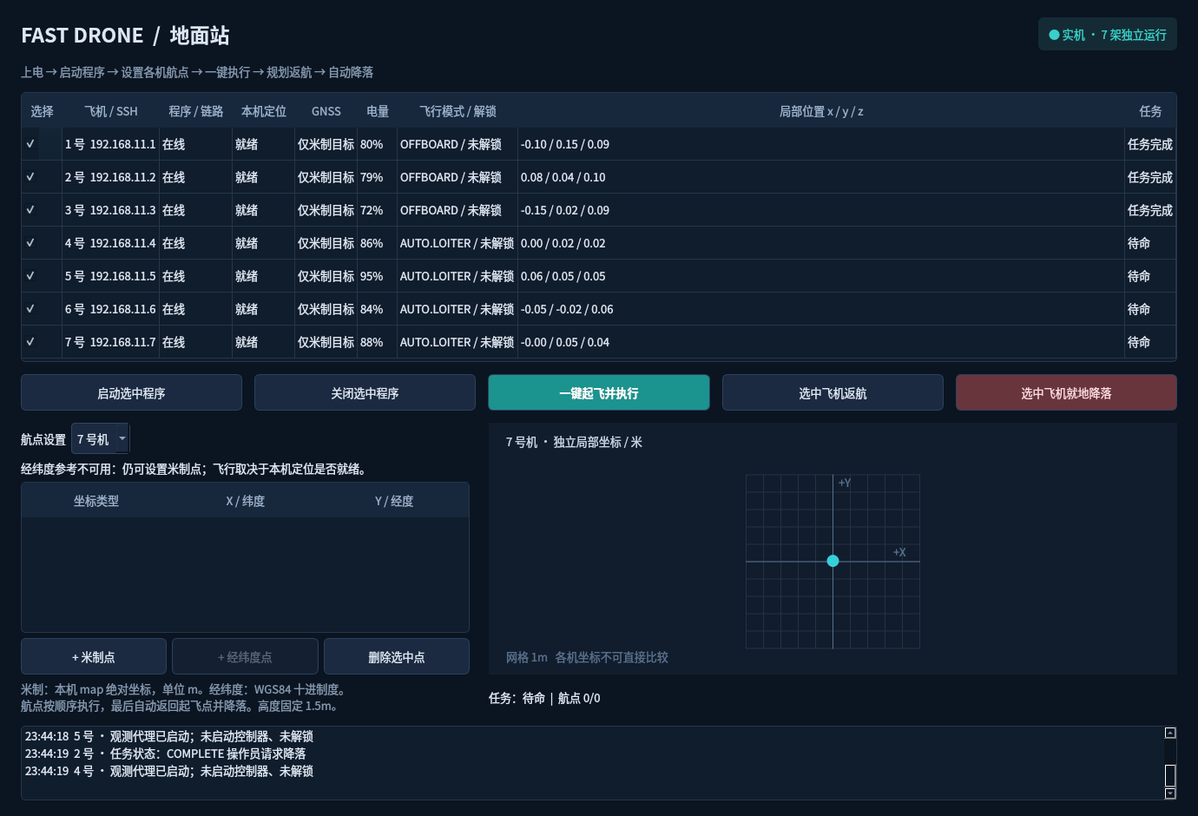
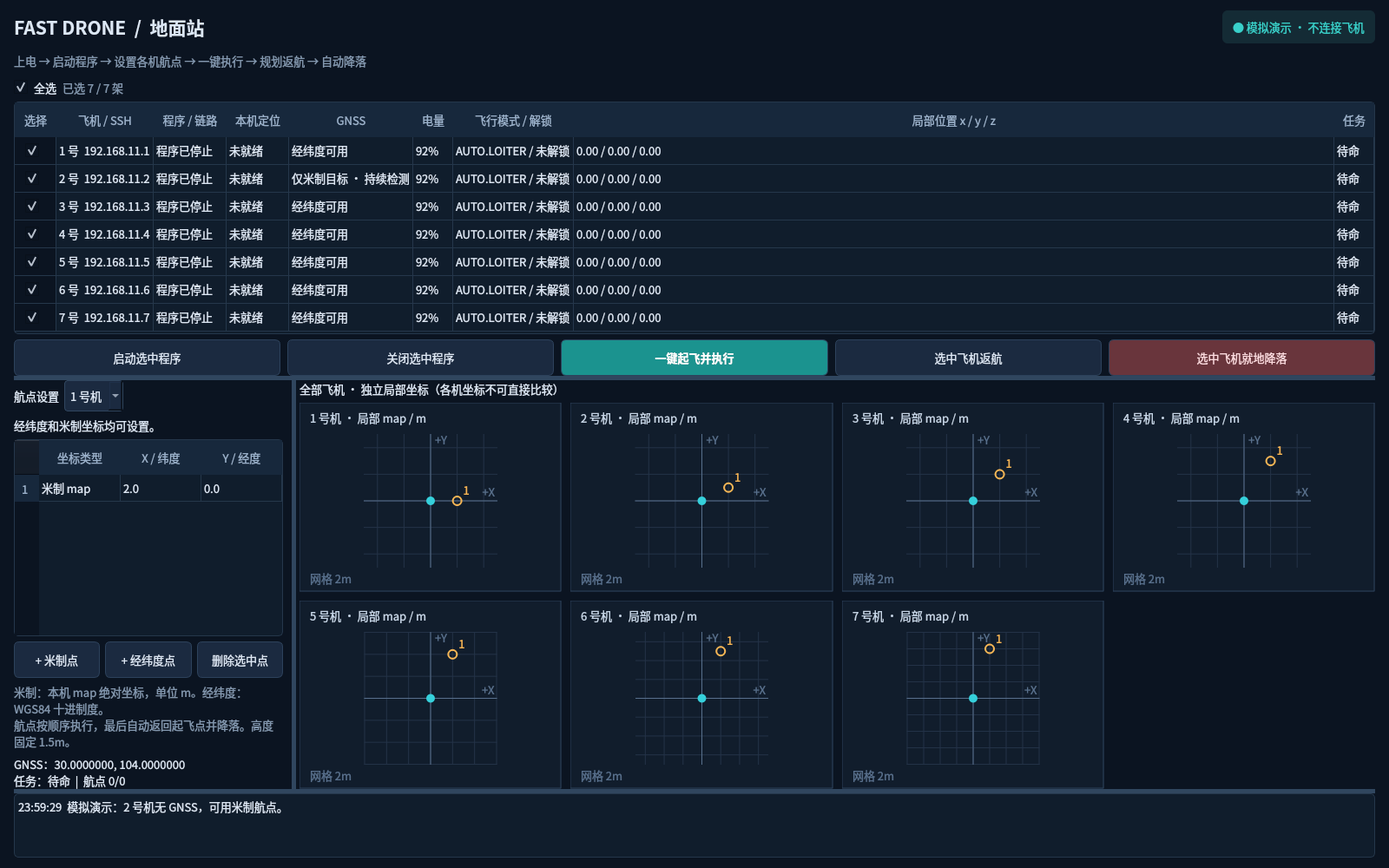
feat: improve fleet layout and live GNSS availability

diff --git a/ground_station/ui.py b/ground_station/ui.py
@@ -5,9 +5,10 @@ from pathlib import Path
 import queue
 import threading
 import time
-from PyQt5 import QtCore, QtGui, QtWidgets as W
+from PyQt5 import QtCore, QtWidgets as W
 from .transport import Remote
 from .demo import Demo
+from .view_widgets import AllCheckBox, MapPanel
 
 PHASES={'IDLE':'待命','ARMING':'解锁中','TAKEOFF':'起飞中','OUTBOUND':'前往航点','RETURNING':'规划返航',
         'LAND_REQUESTED':'请求降落','LANDING':'降落中','COMPLETE':'任务完成','ERROR':'异常','MANUAL':'外部接管',
@@ -46,95 +47,104 @@ class Worker(QtCore.QThread):
         self.backend.close()
 
 
-class LocalPlot(W.QWidget):
-    def __init__(self):
-        super().__init__();self.setMinimumSize(400,290);self.state={};self.points=[];self.trace=[];self.aircraft=1
-    def change(self,n,state,points,trace):
-        self.aircraft=n;self.state=state;self.points=points;self.trace=trace;self.update()
-    def paintEvent(self,event):
-        p=QtGui.QPainter(self);p.setRenderHint(QtGui.QPainter.Antialiasing)
-        p.fillRect(self.rect(),QtGui.QColor('#111d2c'))
-        p.setPen(QtGui.QColor('#c5d5e7'));p.drawText(20,27,f'{self.aircraft} 号机 · 独立局部坐标 / 米')
-        local=[(v['a'],v['b']) for v in self.points if v['kind']=='local']
-        actual=self.state.get('mission',{}).get('points',[])
-        targets=[(a[0],a[1]) for a in actual] or local
-        pos=self.state.get('position');home=self.state.get('mission',{}).get('home')
-        coords=self.trace+targets+([(pos[0],pos[1])] if pos else [])+([(home[0],home[1])] if home else [])+[(0,0)]
-        extent=max(5,max(abs(v) for xy in coords for v in xy)+2)
-        scale=min(self.width()-80,self.height()-90)/(2*extent)
-        cx,cy=self.width()/2,(self.height()+30)/2
-        def xy(a,b):return QtCore.QPointF(cx+a*scale,cy-b*scale)
-        p.setPen(QtGui.QPen(QtGui.QColor('#233247'),1))
-        step=max(1,round(extent/5))
-        for v in range(-int(extent),int(extent)+1):
-            if v%step==0:
-                p.drawLine(xy(v,-extent),xy(v,extent));p.drawLine(xy(-extent,v),xy(extent,v))
-        p.setPen(QtGui.QPen(QtGui.QColor('#58708d'),1));p.drawLine(xy(-extent,0),xy(extent,0));p.drawLine(xy(0,-extent),xy(0,extent))
-        p.drawText(int(cx+extent*scale)-30,int(cy)-6,'+X');p.drawText(int(cx)+7,int(cy-extent*scale)+14,'+Y')
-        p.drawText(20,self.height()-15,f'网格 {step}m   各机坐标不可直接比较')
-        if len(self.trace)>1:
-            p.setPen(QtGui.QPen(QtGui.QColor('#36c5cc'),2));p.drawPolyline(QtGui.QPolygonF([xy(*a) for a in self.trace]))
-        p.setPen(QtGui.QPen(QtGui.QColor('#f6b655'),2));p.setBrush(QtCore.Qt.NoBrush)
-        for i,pt in enumerate(targets):
-            q=xy(*pt);p.drawEllipse(q,6,6);p.drawText(q+QtCore.QPointF(9,-8),str(i+1))
-        if home:
-            q=xy(home[0],home[1]);p.setPen(QtGui.QColor('#6be2a5'));p.drawRect(QtCore.QRectF(q.x()-6,q.y()-6,12,12));p.drawText(q+QtCore.QPointF(9,15),'起飞点')
-        if pos:
-            q=xy(pos[0],pos[1]);p.setPen(QtCore.Qt.NoPen);p.setBrush(QtGui.QColor('#35d0db'));p.drawEllipse(q,7,7)
-        p.end()
-
-
 class Window(W.QMainWindow):
     def __init__(self,config,path,demo=False):
         super().__init__();self.config=config;self.path=Path(path);self.demo=demo
         self.states={};self.traces={a['id']:[] for a in config['aircraft']};self.current=config['aircraft'][0]['id']
         self.workers={};self.event_seen={};self.loading=False;self.received={}
         self.setWindowTitle('Fast Drone · 独立单机地面站'+(' [模拟演示]' if demo else ''))
-        self.resize(1380,940)
-        central=W.QWidget();self.setCentralWidget(central);layout=W.QVBoxLayout(central);layout.setContentsMargins(24,20,24,18);layout.setSpacing(14)
+        screen=W.QApplication.primaryScreen().availableGeometry()
+        self.resize(min(1680,int(screen.width()*.9)),min(1080,int(screen.height()*.9)))
+        self.setMinimumSize(720,540)
+        central=W.QWidget();self.setCentralWidget(central);layout=W.QVBoxLayout(central);layout.setContentsMargins(16,12,16,12);layout.setSpacing(10)
         top=W.QHBoxLayout();title=W.QLabel('FAST DRONE  /  地面站');title.setObjectName('title');top.addWidget(title);top.addStretch()
         badge=W.QLabel('● 模拟演示 · 不连接飞机' if demo else '● 实机 · '+str(len(config['aircraft']))+' 架独立运行');badge.setObjectName('badge');top.addWidget(badge);layout.addLayout(top)
-        desc=W.QLabel('上电 → 启动程序 → 设置各机航点 → 一键执行 → 规划返航 → 自动降落');desc.setObjectName('muted');layout.addWidget(desc)
+        desc=W.QLabel('上电 → 启动程序 → 设置各机航点 → 一键执行 → 规划返航 → 自动降落');desc.setObjectName('muted');desc.setWordWrap(True);layout.addWidget(desc)
+        self.main_splitter=W.QSplitter(QtCore.Qt.Vertical);self.main_splitter.setChildrenCollapsible(False)
+        self.sections_adjusted=False;self.main_splitter.splitterMoved.connect(self.mark_sections_adjusted)
+        layout.addWidget(self.main_splitter,1)
+        status_panel=W.QWidget();status_layout=W.QVBoxLayout(status_panel);status_layout.setContentsMargins(0,0,0,0);status_layout.setSpacing(6)
+        selection=W.QHBoxLayout();self.select_all=AllCheckBox('全选');self.select_all.setTristate(True)
+        self.select_all.stateChanged.connect(self.set_all_selected);selection.addWidget(self.select_all)
+        self.selection_count=W.QLabel();self.selection_count.setObjectName('muted');selection.addWidget(self.selection_count);selection.addStretch();status_layout.addLayout(selection)
+        self.checkboxes={}
         self.table=W.QTableWidget(len(config['aircraft']),9)
         self.table.setHorizontalHeaderLabels(['选择','飞机 / SSH','程序 / 链路','本机定位','GNSS','电量','飞行模式 / 解锁','局部位置 x / y / z','任务'])
         self.table.verticalHeader().hide();self.table.setSelectionBehavior(W.QAbstractItemView.SelectRows);self.table.setEditTriggers(W.QAbstractItemView.NoEditTriggers)
         self.table.horizontalHeader().setSectionResizeMode(W.QHeaderView.ResizeToContents);self.table.horizontalHeader().setSectionResizeMode(7,W.QHeaderView.Stretch)
-        self.table.setFixedHeight(45+38*len(config['aircraft']))
+        self.table.horizontalHeader().setSectionResizeMode(0,W.QHeaderView.Fixed);self.table.setColumnWidth(0,48)
+        self.table.setMinimumHeight(85);self.table.setSizePolicy(W.QSizePolicy.Expanding,W.QSizePolicy.Expanding)
         for row,a in enumerate(config['aircraft']):
-            item=W.QTableWidgetItem();item.setFlags(QtCore.Qt.ItemIsEnabled|QtCore.Qt.ItemIsUserCheckable);item.setCheckState(QtCore.Qt.Checked);self.table.setItem(row,0,item)
+            box=W.QCheckBox();box.setChecked(True);box.setAccessibleName(f"选择 {a['id']} 号机")
+            box.stateChanged.connect(self.update_selection);self.checkboxes[a['id']]=box
+            cell=W.QWidget();cell_layout=W.QHBoxLayout(cell);cell_layout.setContentsMargins(0,0,0,0);cell_layout.setAlignment(QtCore.Qt.AlignCenter);cell_layout.addWidget(box)
+            self.table.setCellWidget(row,0,cell)
             for col in range(1,9):self.table.setItem(row,col,W.QTableWidgetItem('—'))
-            self.table.item(row,1).setText(f"{a['id']} 号  {a['host']}");self.table.setRowHeight(row,38)
+            self.table.item(row,1).setText(f"{a['id']} 号  {a['host']}");self.table.setRowHeight(row,32)
             worker=Worker(a,demo);worker.state.connect(self.on_state);worker.result.connect(self.on_result);self.workers[a['id']]=worker
-        layout.addWidget(self.table)
-        tools=W.QHBoxLayout();self.buttons={}
+        status_layout.addWidget(self.table,1);self.update_selection()
+        self.toolbar=W.QWidget();self.toolbar_grid=W.QGridLayout(self.toolbar);self.toolbar_grid.setContentsMargins(0,0,0,0);self.toolbar_grid.setSpacing(8);self.toolbar_columns=0;self.buttons={}
         for name,label,style in [('start_program','启动选中程序',''),('stop_program','关闭选中程序',''),('start','一键起飞并执行','primary'),('return','选中飞机返航',''),('land','选中飞机就地降落','danger')]:
-            button=W.QPushButton(label);button.setObjectName(style);button.clicked.connect(lambda checked=False,c=name:self.batch(c));tools.addWidget(button);self.buttons[name]=button
-        layout.addLayout(tools)
-        splitter=W.QSplitter();layout.addWidget(splitter,1)
-        left=W.QWidget();ll=W.QVBoxLayout(left);ll.setContentsMargins(0,0,12,0)
+            button=W.QPushButton(label);button.setObjectName(style);button.clicked.connect(lambda checked=False,c=name:self.batch(c));self.buttons[name]=button
+        status_layout.addWidget(self.toolbar);self.main_splitter.addWidget(status_panel)
+        splitter=W.QSplitter();splitter.setChildrenCollapsible(False);self.main_splitter.addWidget(splitter)
+        left=W.QWidget();ll=W.QVBoxLayout(left);ll.setContentsMargins(0,0,10,0)
         header=W.QHBoxLayout();header.addWidget(W.QLabel('航点设置'));self.selector=W.QComboBox()
         for a in config['aircraft']:self.selector.addItem(f"{a['id']} 号机",a['id'])
         self.selector.currentIndexChanged.connect(self.switch);header.addWidget(self.selector);header.addStretch();ll.addLayout(header)
         self.notice=W.QLabel();self.notice.setWordWrap(True);ll.addWidget(self.notice)
         self.waypoints=W.QTableWidget(0,3);self.waypoints.setHorizontalHeaderLabels(['坐标类型','X / 纬度','Y / 经度']);self.waypoints.horizontalHeader().setSectionResizeMode(W.QHeaderView.Stretch);ll.addWidget(self.waypoints)
-        self.waypoints.itemChanged.connect(self.save_edits)
+        self.waypoints.setMinimumHeight(85);self.waypoints.itemChanged.connect(self.save_edits)
         controls=W.QHBoxLayout()
         add=W.QPushButton('+ 米制点');add.clicked.connect(lambda:self.add_point('local'));controls.addWidget(add)
         self.add_geo=W.QPushButton('+ 经纬度点');self.add_geo.clicked.connect(lambda:self.add_point('geo'));controls.addWidget(self.add_geo)
         delete=W.QPushButton('删除选中点');delete.clicked.connect(self.delete_point);controls.addWidget(delete)
         ll.addLayout(controls)
         text=W.QLabel('米制：本机 map 绝对坐标，单位 m。经纬度：WGS84 十进制度。\n航点按顺序执行，最后自动返回起飞点并降落。高度固定 1.5m。');text.setWordWrap(True);text.setObjectName('muted');ll.addWidget(text)
-        splitter.addWidget(left)
-        right=W.QWidget();rl=W.QVBoxLayout(right);rl.setContentsMargins(10,0,0,0)
-        self.plot=LocalPlot();rl.addWidget(self.plot,1);self.details=W.QLabel('等待遥测');self.details.setWordWrap(True);rl.addWidget(self.details);splitter.addWidget(right);splitter.setSizes([500,760])
-        self.log=W.QPlainTextEdit();self.log.setReadOnly(True);self.log.setMaximumHeight(130);self.log.document().setMaximumBlockCount(300);layout.addWidget(self.log)
-        self.setStyleSheet('''QMainWindow,QWidget{background:#0b1421;color:#dce7f5;font-family:"Noto Sans CJK SC","DejaVu Sans";font-size:13px} QLabel#title{font-size:23px;font-weight:700} QLabel#badge{color:#39d0ca;background:#142b35;border-radius:6px;padding:9px} QLabel#muted{color:#8297af} QPushButton{background:#1b2a40;border:1px solid #2d425c;border-radius:6px;padding:10px 14px} QPushButton:hover{background:#263b55} QPushButton:disabled{color:#586777;background:#142031} QPushButton#primary{background:#1b938f;color:white;font-weight:bold} QPushButton#danger{background:#69353c;color:#ffdbdf} QTableWidget,QPlainTextEdit{background:#101d2c;alternate-background-color:#152436;border:1px solid #25374b;border-radius:5px;gridline-color:#25374b;selection-background-color:#214e63} QHeaderView::section{background:#17283c;color:#9bb2cc;padding:8px;border:0} QComboBox{background:#1b2a40;padding:6px;border:1px solid #30465f;border-radius:4px} QLineEdit{background:#142236} QSplitter::handle{background:#25374b;width:1px}''')
-        self.load_points();self.write_log('模拟演示：2 号机无 GNSS，可用米制航点。' if demo else '启动程序不会解锁；任务在各机独立执行。')
+        self.details=W.QLabel('等待遥测');self.details.setWordWrap(True);ll.addWidget(self.details)
+        editor=W.QScrollArea();editor.setWidgetResizable(True);editor.setFrameShape(W.QFrame.NoFrame);editor.setWidget(left);editor.setMinimumSize(250,150)
+        splitter.addWidget(editor)
+        right=W.QWidget();rl=W.QVBoxLayout(right);rl.setContentsMargins(4,0,0,0)
+        map_title=W.QLabel('全部飞机 · 独立局部坐标（各机坐标不可直接比较）');map_title.setWordWrap(True);rl.addWidget(map_title)
+        self.map_panel=MapPanel([a['id'] for a in config['aircraft']]);rl.addWidget(self.map_panel,1)
+        splitter.addWidget(right);splitter.setStretchFactor(0,0);splitter.setStretchFactor(1,1);splitter.setSizes([320,1200])
+        self.log=W.QPlainTextEdit();self.log.setReadOnly(True);self.log.setMinimumHeight(50);self.log.document().setMaximumBlockCount(300);self.main_splitter.addWidget(self.log)
+        self.main_splitter.setSizes([335,590,90]);self.main_splitter.setStretchFactor(0,1);self.main_splitter.setStretchFactor(1,3);self.main_splitter.setStretchFactor(2,0)
+        self.setStyleSheet('''QMainWindow,QWidget{background:#0b1421;color:#dce7f5;font-family:"Noto Sans CJK SC","DejaVu Sans";font-size:13px} QLabel#title{font-size:21px;font-weight:700} QLabel#badge{color:#39d0ca;background:#142b35;border-radius:6px;padding:9px} QLabel#muted{color:#8297af} QPushButton{background:#1b2a40;border:1px solid #2d425c;border-radius:6px;padding:10px 14px} QPushButton:hover{background:#263b55} QPushButton:disabled{color:#586777;background:#142031} QPushButton#primary{background:#1b938f;color:white;font-weight:bold} QPushButton#danger{background:#69353c;color:#ffdbdf} QTableWidget,QPlainTextEdit{background:#101d2c;alternate-background-color:#152436;border:1px solid #25374b;border-radius:5px;gridline-color:#25374b;selection-background-color:#214e63} QHeaderView::section{background:#17283c;color:#9bb2cc;padding:8px;border:0} QComboBox{background:#1b2a40;padding:6px;border:1px solid #30465f;border-radius:4px} QLineEdit{background:#142236} QCheckBox{spacing:7px} QCheckBox::indicator{width:16px;height:16px} QSplitter::handle{background:#30465f;width:5px;height:5px} QScrollArea{border:0}''')
+        self.adapt_toolbar();self.load_points();self.write_log('模拟演示：2 号机无 GNSS，可用米制航点。' if demo else '启动程序不会解锁；任务在各机独立执行。')
         for worker in self.workers.values():worker.start()
         self.timer=QtCore.QTimer(self);self.timer.timeout.connect(self.refresh_detail);self.timer.start(500)
 
     def write_log(self,text):self.log.appendPlainText(time.strftime('%H:%M:%S')+'  '+text)
-    def selected(self):return [a['id'] for row,a in enumerate(self.config['aircraft']) if self.table.item(row,0).checkState()==QtCore.Qt.Checked]
+    def selected(self):return [n for n,box in self.checkboxes.items() if box.isChecked()]
+    def set_all_selected(self,state):
+        for box in self.checkboxes.values():
+            blocker=QtCore.QSignalBlocker(box);box.setChecked(state==QtCore.Qt.Checked);del blocker
+        self.update_selection()
+    def update_selection(self,*args):
+        count=len(self.selected());total=len(self.checkboxes)
+        state=QtCore.Qt.Checked if count==total else QtCore.Qt.PartiallyChecked if count else QtCore.Qt.Unchecked
+        blocker=QtCore.QSignalBlocker(self.select_all);self.select_all.setCheckState(state);del blocker
+        self.selection_count.setText(f'已选 {count} / {total} 架')
+    def resizeEvent(self,event):
+        super().resizeEvent(event)
+        if hasattr(self,'toolbar_grid'):
+            self.adapt_toolbar();QtCore.QTimer.singleShot(0,self.fit_sections)
+    def mark_sections_adjusted(self,*args):self.sections_adjusted=True
+    def fit_sections(self):
+        if self.sections_adjusted:return
+        height=self.main_splitter.height()
+        desired=self.table.rowCount()*32+self.table.horizontalHeader().height()+self.toolbar.sizeHint().height()+self.select_all.sizeHint().height()+16
+        top=min(desired,int(height*.4));bottom=min(90,max(50,height//12))
+        self.main_splitter.setSizes([top,max(150,height-top-bottom-10),bottom])
+    def adapt_toolbar(self):
+        columns=5 if self.width()>=1150 else 3
+        if columns==self.toolbar_columns:return
+        while self.toolbar_grid.count():self.toolbar_grid.takeAt(0)
+        for col in range(max(columns,self.toolbar_columns)):self.toolbar_grid.setColumnStretch(col,0)
+        for i,button in enumerate(self.buttons.values()):self.toolbar_grid.addWidget(button,i//columns,i%columns)
+        for col in range(columns):self.toolbar_grid.setColumnStretch(col,1)
+        self.toolbar_columns=columns
     def points(self,n):return self.config.setdefault('waypoints',{}).setdefault(str(n),[])
     def persist(self):
         temporary=self.path.with_suffix('.tmp')
@@ -166,7 +176,7 @@ class Window(W.QMainWindow):
         state=self.states.get(self.current,{})
         if kind=='geo':
             gps=state.get('gps')
-            if not state.get('geo_ready') or not gps:return
+            if not self.geo_available(self.current):return
             a,b=gps['latitude'],gps['longitude']
         else:
             pos=state.get('position') or [0,0,0];a,b=round(pos[0]+2,2),round(pos[1],2)
@@ -225,10 +235,17 @@ class Window(W.QMainWindow):
         if events and events[-1]!=last:
             self.write_log(f"{n} 号 · {events[-1]['text']}");self.event_seen[n]=events[-1]
         self.refresh_detail()
+    def geo_available(self,n):
+        state=self.states.get(n,{})
+        return bool(time.monotonic()-self.received.get(n,0)<3 and state.get('online')
+                    and state.get('geo_ready') and state.get('gps'))
     def refresh_detail(self):
+        for row,a in enumerate(self.config['aircraft']):
+            n=a['id']
+            self.table.item(row,4).setText('经纬度可用' if self.geo_available(n) else '仅米制目标 · 持续检测')
         s=self.states.get(self.current,{});fresh=time.monotonic()-self.received.get(self.current,0)<3
-        geo=bool(fresh and s.get('online') and s.get('geo_ready'));self.add_geo.setEnabled(geo)
-        self.notice.setText('经纬度和米制坐标均可设置。' if geo else '经纬度参考不可用：仍可设置米制点；飞行取决于本机定位是否就绪。')
+        geo=self.geo_available(self.current);self.add_geo.setEnabled(geo)
+        self.notice.setText('经纬度和米制坐标均可设置。' if geo else '持续检测 GNSS 与坐标参考，可用后自动开放经纬度点；当前可设置米制点。')
         m=s.get('mission',{});gps=s.get('gps');parts=[]
         if not fresh:parts.append('遥测未更新，请等待连接')
         parts.extend(s.get('reasons',[]))
@@ -236,7 +253,8 @@ class Window(W.QMainWindow):
         if gps:parts.append(f"GNSS：{gps['latitude']:.7f}, {gps['longitude']:.7f}")
         parts.append(f"任务：{PHASES.get(m.get('phase'),m.get('phase','—'))}  |  航点 {min(m.get('index',0)+1,len(m.get('points',[])))}/{len(m.get('points',[]))}")
         if m.get('reason'):parts.append(m['reason'])
-        self.details.setText('\n'.join(parts));self.plot.change(self.current,s,self.points(self.current),self.traces[self.current])
+        self.details.setText('\n'.join(parts))
+        for n,plot in self.map_panel.plots.items():plot.change(self.states.get(n,{}),self.points(n),self.traces[n])
     def closeEvent(self,event):
         active=[n for n,s in self.states.items() if s.get('mission',{}).get('active')]
         if active and W.QMessageBox.question(self,'机上任务仍在执行','关闭界面不会停止机上任务，飞机仍会按任务返航降落。确认关闭？',W.QMessageBox.Yes|W.QMessageBox.No,W.QMessageBox.No)!=W.QMessageBox.Yes:event.ignore();return

diff --git a/ground_station/view_widgets.py b/ground_station/view_widgets.py
@@ -1,0 +1,82 @@
+"""Presentation-only widgets for independent aircraft views."""
+import math
+from PyQt5 import QtCore, QtGui, QtWidgets as W
+
+
+class AllCheckBox(W.QCheckBox):
+    def nextCheckState(self):
+        # Partial is a display state; a click always selects all or clears all.
+        self.setCheckState(QtCore.Qt.Unchecked if self.checkState()==QtCore.Qt.Checked else QtCore.Qt.Checked)
+
+
+class LocalPlot(W.QWidget):
+    def __init__(self,aircraft):
+        super().__init__();self.setMinimumSize(180,150)
+        self.setSizePolicy(W.QSizePolicy.Expanding,W.QSizePolicy.Expanding)
+        self.aircraft=aircraft;self.state={};self.points=[];self.trace=[]
+    def change(self,state,points,trace):
+        self.state=state;self.points=points;self.trace=trace;self.update()
+    def paintEvent(self,event):
+        p=QtGui.QPainter(self);p.setRenderHint(QtGui.QPainter.Antialiasing)
+        p.fillRect(self.rect(),QtGui.QColor('#111d2c'))
+        p.setPen(QtGui.QPen(QtGui.QColor('#2d425c'),1));p.drawRect(self.rect().adjusted(0,0,-1,-1))
+        p.setPen(QtGui.QColor('#c5d5e7'));p.drawText(12,23,f'{self.aircraft} 号机 · 局部 map / m')
+        local=[(v['a'],v['b']) for v in self.points if v['kind']=='local']
+        actual=self.state.get('mission',{}).get('points',[])
+        targets=[(a[0],a[1]) for a in actual] or local
+        pos=self.state.get('position');home=self.state.get('mission',{}).get('home')
+        coords=self.trace+targets+([(pos[0],pos[1])] if pos else [])+([(home[0],home[1])] if home else [])+[(0,0)]
+        extent=max(5,max(abs(v) for xy in coords for v in xy)+2)
+        scale=min(self.width()-52,self.height()-65)/(2*extent)
+        cx,cy=self.width()/2,(self.height()+8)/2
+        def xy(a,b):return QtCore.QPointF(cx+a*scale,cy-b*scale)
+        step=max(1,math.ceil(extent/4))
+        p.setPen(QtGui.QPen(QtGui.QColor('#233247'),1))
+        for i in range(-4,5):
+            v=i*step
+            if abs(v)<=extent:
+                p.drawLine(xy(v,-extent),xy(v,extent));p.drawLine(xy(-extent,v),xy(extent,v))
+        p.setPen(QtGui.QPen(QtGui.QColor('#58708d'),1))
+        p.drawLine(xy(-extent,0),xy(extent,0));p.drawLine(xy(0,-extent),xy(0,extent))
+        p.drawText(xy(extent,0)+QtCore.QPointF(-17,-5),'+X');p.drawText(xy(0,extent)+QtCore.QPointF(5,11),'+Y')
+        p.drawText(12,self.height()-10,f'网格 {step:g}m')
+        if len(self.trace)>1:
+            p.setPen(QtGui.QPen(QtGui.QColor('#36c5cc'),2));p.drawPolyline(QtGui.QPolygonF([xy(*a) for a in self.trace]))
+        p.setPen(QtGui.QPen(QtGui.QColor('#f6b655'),2));p.setBrush(QtCore.Qt.NoBrush)
+        for i,pt in enumerate(targets):
+            q=xy(*pt);p.drawEllipse(q,5,5);p.drawText(q+QtCore.QPointF(7,-7),str(i+1))
+        if home:
+            q=xy(home[0],home[1]);p.setPen(QtGui.QColor('#6be2a5'));p.drawRect(QtCore.QRectF(q.x()-5,q.y()-5,10,10))
+        if pos:
+            q=xy(pos[0],pos[1]);p.setPen(QtCore.Qt.NoPen);p.setBrush(QtGui.QColor('#35d0db'));p.drawEllipse(q,5,5)
+        else:
+            p.setPen(QtGui.QColor('#8297af'));p.drawText(self.rect(),QtCore.Qt.AlignCenter,'等待位置')
+        if not self.state.get('online',False):
+            p.setPen(QtGui.QColor('#f6b655'));p.drawText(self.width()-66,self.height()-10,'未连接')
+        p.end()
+
+
+class MapPanel(W.QScrollArea):
+    def __init__(self,aircraft):
+        super().__init__();self.setWidgetResizable(True);self.setFrameShape(W.QFrame.NoFrame)
+        self.setMinimumSize(200,150)
+        self.body=W.QWidget();self.grid=W.QGridLayout(self.body);self.grid.setContentsMargins(0,0,0,0);self.grid.setSpacing(10)
+        self.plots={n:LocalPlot(n) for n in aircraft};self.columns=0
+        self.setWidget(self.body);self.viewport().installEventFilter(self)
+        self.reflow(self.viewport().width())
+    def eventFilter(self,obj,event):
+        if obj is self.viewport() and event.type()==QtCore.QEvent.Resize:
+            self.reflow(event.size().width())
+        return super().eventFilter(obj,event)
+    def reflow(self,width):
+        columns=min(len(self.plots),4,max(1,(width+10)//210))
+        if columns==self.columns:return
+        while self.grid.count():self.grid.takeAt(0)
+        for col in range(max(self.columns,columns)):self.grid.setColumnStretch(col,0)
+        for row in range(self.grid.rowCount()):self.grid.setRowStretch(row,0)
+        for i,plot in enumerate(self.plots.values()):
+            self.grid.addWidget(plot,i//columns,i%columns);self.grid.setRowStretch(i//columns,1)
+        for col in range(columns):self.grid.setColumnStretch(col,1)
+        rows=math.ceil(len(self.plots)/columns)
+        self.body.setMinimumHeight(rows*150+(rows-1)*10)
+        self.columns=columns

diff --git a/docs/ui-layout.md b/docs/ui-layout.md
@@ -1,0 +1,13 @@
+# 地面站自适应界面
+
+本次确认的布局：选择列使用居中的单独勾选框，不显示空文本格；增加全选框，反映全选、部分选中、未选中状态。每架飞机自己的局部坐标图同时展示，随可用宽度自动换列，不能误解为共同地图。状态表、航点编辑/地图、日志之间可拖动调整。
+
+实施顺序：
+1. 替换选择单元格并连接全选状态，保持批量操作仅针对勾选飞机。
+2. 复用 LocalPlot，建立按飞机编号索引的小图网格；未收到数据也显示该机占位图。
+3. 移除表格和地图的大固定尺寸，使用分隔条和滚动区；操作按钮窄窗口自动换行，初始窗口适配屏幕可用区域。
+4. 离线验证选择与批量操作编号、独立图更新、宽窄窗口布局，检查截图；不修改 SSH、任务状态机或机载程序。
+
+GNSS 补充：保留每机持续状态轮询；经纬度按钮、状态表和添加操作统一检查当前参考与遥测时效，信号恢复后自动启用，超过 3 秒未更新时禁用。米制点不受 GNSS 限制。
+
+验证完成：离线检查全选/部分选中、仅向勾选飞机提交模拟任务、各机图独立更新、窗口缩放，以及 GNSS 失效/恢复/遥测超时，共 5 项通过。检查 1600×1000、1280×800、800×600 的布局；小窗口使用滚动区。interface.png 为离线演示截图。临时测试脚本已清理；未执行真实飞行命令。

diff --git a/README.md b/README.md
@@ -32,6 +32,10 @@ bash run.sh
 5. 可提前点击「返航」或「就地降落」。切换为外部控制模式后不自动抢回 OFFBOARD。
 6. 已着陆、未解锁且没有执行中任务时，可以关闭机上程序。
 
+选择列只保留居中勾选框；上方「全选」支持全选、取消全选，并显示部分选中状态。七架飞机的独立坐标图同时显示，随窗口宽度自动换列；空间不足时可滚动查看。拖动分隔条可调整状态表、航点/地图区及日志的大小。
+
+GNSS 和坐标参考持续检测，正常通信下约每 0.7 秒查询一次机上状态；参考有效后自动启用「+ 经纬度点」，无需重启。失效或遥测超过 3 秒未更新时禁用经纬度点，恢复后自动启用，米制点仍可设置。坐标转换参考需要在未解锁、静止时取得稳定的 GNSS、本机定位及罗盘数据。
+
 批量操作为独立并发请求，不保证同时离地或全部接受。任务在机上执行，地面站断开后已接受任务仍继续；重新连接仅查询进度，不重发起飞。
 
 ## 坐标与参数
@@ -52,4 +56,4 @@ bash run.sh
 
 [4～7 号机部署记录](docs/aircraft-4-7-deployment.md)包含复用的雷达配置及静态验证结果。飞控连接、定位和点云就绪不等于完成实机飞行验收；本次未发送真实解锁、起飞或导航目标。
 
-![七机界面](docs/interface.png)
+![七机界面（离线演示）](docs/interface.png)
